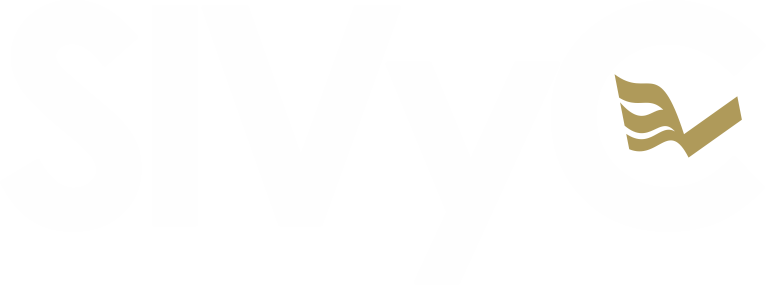
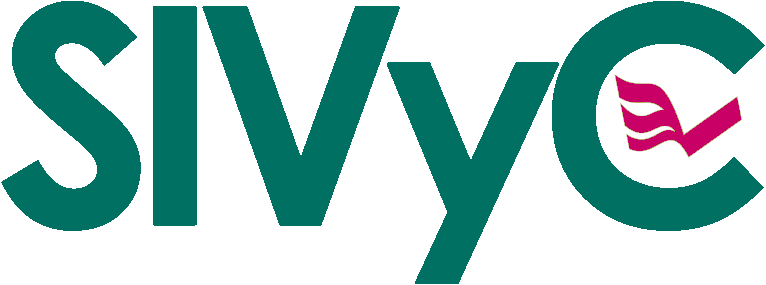
nueva-identidad

diff --git a/public/css/global.css b/public/css/global.css
@@ -11,10 +11,10 @@ input[type=text], select, textarea {
 
 .card-header{    
     font-variant: small-caps;
-    background-color: #621132;
+    background-color: rgb(201, 1, 102) !important;
     color: white;
     margin: 1.7% 1.7% 1% 1.7%;
-    padding: 1.3% 39px 1.3% 39px;
+    padding: 1.3% 39px 1.3% 39px;    
     font-style: normal;
     font-size: 22px;
 }
@@ -46,3 +46,10 @@ td{ font-size: 13px; }
 
 .custom-select-mov { font-size: 16px; }
 .custom-check { width:22px; height:22px; }
+
+.pink2 { background-color: rgb(211, 194, 180) !important;}
+#navbarDropdownMenuLink { color: #333333; font-size: 16px; }
+
+
+.g-bg-black-opacity-0_8 { background-color: rgb(0, 152, 133) !important; }
+.g-brd-primary { border-color: #fff !important; }

diff --git a/public/css/unify-globals.css b/public/css/unify-globals.css
@@ -6323,6 +6323,12 @@ svg.g-transition--linear polygon {
   color: #b09a5b !important;
 }
 
+.g-color-2025--hover:hover {  
+  text-shadow: 1px 1px 2px #fff;
+  border-color: #12322b;
+}
+
+
 /* Black Colors */
 .g-color-black {
   color: #000 !important;

diff --git a/resources/views/theme/sivyc/footer.blade.php b/resources/views/theme/sivyc/footer.blade.php
@@ -1,46 +1,71 @@
-<footer class="form-inline g-bg-black-opacity-0_9 g-color-white-opacity-0_8 g-py-20 g-px-20">
-    <div class="form-inline col-md-2">        
-        <a href="https://www.chiapas.gob.mx" class="navbar-brand g-text-underline--hover"><img src="https://icatech.gob.mx/assets/logo/escudo-icono.png" alt="ESCUDO"></a>
-        <a href="https://www.chiapas.gob.mx" class="g-color-white-opacity-0_9 g-font-size-16 g-font-weight-300 g-font-secondary g-text-underline--hover">chiapas<span class="g-color-white-opacity-0_6">.gob.mx</span></a>
-        
-    </div>
-    <div class="form-inline col-md-7 d-none d-sm-none d-md-none d-lg-none d-xl-block">  
-        <div class="col-md-12  ">
-            <div class="d-lg-flex">
-                            <small class="d-block g-font-size-default g-mr-10 g-mb-10 g-mb-0--md g-font-weight-300">Trámites y Servicios:</small>
-                            <ul class="u-list-inline">
-                                <li class="list-inline-item"><a class="g-color-white-opacity-0_8 g-color-white--hover" href="https://www.chiapas.gob.mx/tramites">Buscar servicios</a></li>
-                                <li class="list-inline-item"><span>|</span></li>
-                                <li class="list-inline-item"><a class="g-color-white-opacity-0_8 g-color-white--hover" href="https://www.chiapas.gob.mx/servicios-pago-de-derechos">Pago de Derechos</a></li>
-                                <li class="list-inline-item"><span>|</span></li>
-                                <li class="list-inline-item"><a class="g-color-white-opacity-0_8 g-color-white--hover" href="https://www.chiapas.gob.mx/servicios-por-entidad">Servicios por Entidad</a></li>
-                                <li class="list-inline-item"><span>|</span></li>
-                                <li class="list-inline-item"><a class="g-color-white-opacity-0_8 g-color-white--hover" href="https://www.chiapas.gob.mx/servicios-por-internet">Servicios por Internet</a></li>
-                            </ul>
-            </div>
-        </div>
-        <div class="col-md-12 ">
-            <div class="d-lg-flex">
-                    <small class="d-block g-font-size-default g-mr-10 g-mb-10 g-mb-0--md">Mantente informado:</small>
-                    <ul class="u-list-inline">
-                        <li class="list-inline-item"><a class="g-color-white-opacity-0_8 g-color-white--hover" href="https://www.chiapas.gob.mx/tv">TV</a></li>
-                        <li class="list-inline-item"><span>|</span></li>
-                        <li class="list-inline-item"><a class="g-color-white-opacity-0_8 g-color-white--hover" href="https://www.chiapas.gob.mx/radio">Radio</a></li>
-                        <li class="list-inline-item"><span>|</span></li>
-                        <li class="list-inline-item"><a class="g-color-white-opacity-0_8 g-color-white--hover" href="https://www.chiapas.gob.mx/prensa">Prensa</a></li>
-                        <li class="list-inline-item"><span>|</span></li>
-                        <li class="list-inline-item"><a class="g-color-white-opacity-0_8 g-color-white--hover" href="https://www.chiapas.gob.mx/redes">Redes sociales</a></li>
-                    </ul>
-            </div>                    
-        </div>
-    </div>
-    <div class="form-inline col-sm-12 col-md-3 align-self-rigth">  
-        <div class="col-md-12 align-self-center d-xl-block">
-                <ul class="list-inline text-center text-md-right mb-0">
-					<li class="list-inline-item g-mr-10"><a class="u-icon-v3 u-icon-size--xs g-bg-white-opacity-0_1 g-bg-white-opacity-0_2--hover g-color-white-opacity-0_6" href="https://www.facebook.com/ICATchiapas" target="_blank"><i class="fab fa-facebook-f"></i></a></li>
+<div class="g-bg-black-opacity-0_8 g-color-white-opacity-0_8 g-py-20">
+	<div class="container">
+		<div class="row">						
+			<div class="col-lg-2 col-md-6 g-mb-40 g-mb-0--lg d-none d-sm-none d-md-none d-lg-block d-xl-block">
+				<a href="https://icatech.gob.mx" class="navbar-brand g-text-underline--hover">
+					<img class="img-fluid" src="{{asset('img/icatech-blanco.png') }}" alt="ICATECH" >
+				</a> 
+			</div>
+			<div class="col-lg-3 col-md-6 g-mb-40 g-mb-0--lg d-none d-sm-none d-md-none d-lg-block d-xl-block">
+				<div class="u-heading-v3-1 g-brd-white-opacity-0_3 g-mb-25">
+					<h2 class="u-heading-v3__title h6 g-brd-primary g-font-size-14 g-color-white g-font-weight-400">Portal del Gobierno</h2>
+			</div>
+			<nav class="text-uppercase1">
+				<ul class="list-unstyled g-mt-minus-10 mb-0">							
+					<li class="g-pos-rel g-brd-bottom g-brd-white-opacity-0_1 g-py-3"><a class="g-color-white-opacity-0_8 g-color-white--hover" >Gobernador Eduardo Ramirez Aguilar</a><i class="fa fa-angle-right g-absolute-centered--y g-right-0"></i></li>
+					<li class="g-pos-rel g-brd-bottom g-brd-white-opacity-0_1 g-py-3"><a  target="_blank" class="g-color-white-opacity-0_8 g-color-white--hover" href="https://www.chiapas.gob.mx/organismos/">Dependencia y Organismos Público</a><i class="fa fa-angle-right g-absolute-centered--y g-right-0"></i></li>
+					<li class="g-pos-rel g-brd-bottom g-brd-white-opacity-0_1 g-py-3"><a  target="_blank" class="g-color-white-opacity-0_8 g-color-white--hover" href="https://www.chiapas.gob.mx/gobierno/">Municipios del Estado</a><i class="fa fa-angle-right g-absolute-centered--y g-right-0"></i></li>									
+				</ul>							
+			</nav>
+		</div>		
+		<div class="col-lg-3 col-md-6 g-mb-40 g-mb-0--lg d-none d-sm-none d-md-none d-lg-block d-xl-block">
+			<div class="u-heading-v3-1 g-brd-white-opacity-0_3 g-mb-25">
+				<h2 class="u-heading-v3__title h6 g-brd-primary">Recursos</h2>
+			</div>		
+			<nav class="text-uppercase1">
+				<ul class="list-unstyled g-mt-minus-10 mb-0">									
+					<li class="g-pos-rel g-brd-bottom g-brd-white-opacity-0_1 g-py-3"><a  target="_blank" class="g-color-white-opacity-0_8 g-color-white--hover" href="https://icatech.gob.mx/normatividad">Normatividad</a><i class="fa fa-angle-right g-absolute-centered--y g-right-0"></i></li>
+					<li class="g-pos-rel g-brd-bottom g-brd-white-opacity-0_1 g-py-3"><a  target="_blank" class="g-color-white-opacity-0_8 g-color-white--hover" href="https://icatech.transparencia.chiapas.gob.mx">Transparencia ICATECH</a><i class="fa fa-angle-right g-absolute-centered--y g-right-0"></i></li>
+					<li class="g-pos-rel g-brd-bottom g-brd-white-opacity-0_1 g-py-3"><a  target="_blank" class="g-color-white-opacity-0_8 g-color-white--hover" href="https://icatech.gob.mx/avisos-de-privacidad">Avisos de Privacidad</a><i class="fa fa-angle-right g-absolute-centered--y g-right-0"></i></li>									
+				</ul>
+			</nav>
+			</div>
+				<div class="col-lg-4 col-md-6 d-none d-sm-none d-md-none d-lg-block d-xl-block">
+					<div class="u-heading-v3-1 g-brd-white-opacity-0_3 g-mb-25">
+						<h2 class="u-heading-v3__title h6 g-brd-primary g-font-size-14 g-color-white g-font-weight-400">Contáctanos</h2>
+					</div>							
+					<address class="g-bg-no-repeat g-line-height-2 g-mt-minus-4" >
+						Av. Barrio San Jacinto N° 154, entre calle Pájaros y calle Conejos, Fracc. El Diamante C.P. 29059 Tuxtla Gutiérrez<br>
+						Conmutador: (961) 612 1621 <br> Correo: icatech@icatech.chiapas.gob.mx
+					</address>							
+                <div class="col-md-12 align-self-center">
+				<ul class="list-inline text-center text-md-right mb-0">
+                    <li class="list-inline-item g-mr-10"><a class="u-icon-v3 u-icon-size--xs g-bg-white-opacity-0_1 g-bg-white-opacity-0_2--hover g-color-white-opacity-0_6" href="https://www.facebook.com/ICATchiapas" target="_blank"><i class="fab fa-facebook-f"></i></a></li>
 					<li class="list-inline-item g-mr-10"><a class="u-icon-v3 u-icon-size--xs g-bg-white-opacity-0_1 g-bg-white-opacity-0_2--hover g-color-white-opacity-0_6" href="https://www.instagram.com/icatechchiapas/" target="_blank"><i class="fab fa-instagram"></i></a></li>
 					<li class="list-inline-item g-mr-10"><a class="u-icon-v3 u-icon-size--xs g-bg-white-opacity-0_1 g-bg-white-opacity-0_2--hover g-color-white-opacity-0_6" href="https://twitter.com/IcatechOficial" target="_blank"><i class="fab fa-twitter"></i></a></li>
 				</ul>
-        </div>
-    </div>    
+				</div>
+			</div>
+		</div>
+	</div>
+</div>
+
+			
+<footer class="g-bg-black-opacity-0_9 g-color-white-opacity-0_8 g-py-20">
+	<div class="container">
+		<div class="row">
+			<div class="col-md-8 text-center text-md-left g-mb-15 g-mb-0--md">
+				<div class="d-lg-flex">
+					<small class="d-block g-font-size-default g-mr-10 g-mb-10 g-mb-0--md">Gobierno del Estado de Chiapas</small>
+				</div>
+			</div>
+			
+			<div class="col-md-4 align-self-center">
+				<ul class="list-inline text-center text-md-right mb-0">
+    				<li class="list-inline-item g-mx-10" data-toggle="tooltip" data-placement="top" title="Facebook"><a href="https://www.facebook.com/gobiernodechiapas" class="g-color-white-opacity-0_5 g-color-white--hover"><i class="fab fa-facebook"></i></a></li>
+						<li class="list-inline-item g-mx-10" data-toggle="tooltip" data-placement="top" title="Twitter"><a href="https://x.com/ChiapasGobierno" class="g-color-white-opacity-0_5 g-color-white--hover"><i class="fab fa-twitter"></i></a></li>
+				</ul>
+			</div>
+		</div>
+	</div>
 </footer>

diff --git a/resources/views/theme/sivyc/menu.blade.php b/resources/views/theme/sivyc/menu.blade.php
@@ -1,8 +1,8 @@
 <!--Navbar -->
-<nav class="mb-1 navbar navbar-expand-lg navbar-dark pink darken-4">
-    <a class="navbar-brand" href="#">
-        <h4><b>ICATECH</b></h4>
-    </a>
+<nav class="mb-1 navbar navbar-expand-lg navbar-dark pink2 darken-4">    
+    <a href="https://sivyc.icatech.gob.mx" class="navbar-brand g-text-underline--hover">
+        <img src="{{asset('img/sivyc.png') }}" alt="SIVyC" height="40">
+    </a>    
     <button class="navbar-toggler" type="button" data-toggle="collapse" data-target="#navbarSupportedContent-555"
         aria-controls="navbarSupportedContent-555" aria-expanded="false" aria-label="Toggle navigation">
         <span class="navbar-toggler-icon"></span>
@@ -32,7 +32,7 @@
                 <!--AGREGAR NUEVO ELEMENTO EN EL MENU END-->
                 @can('preinscripcion.grupo')
                     <li class="nav-item g-mx-5--lg dropdown">
-                        <a class="nav-link g-color-white--hover" href="#" id="navbarDropdownMenuLink"
+                        <a class="nav-link g-color-2025--hover" href="#" id="navbarDropdownMenuLink"
                             data-toggle="dropdown" aria-haspopup="true" aria-expanded="false">
                             Preinscripci&oacute;n
                         </a>
@@ -53,7 +53,7 @@
                 @canany(['solicitud.apertura', 'solicitud.exoneracion', 'supre.index', 'contratos.index', 'pagos.inicio',
                     'prevalidar_index-instructor', 'metasavances.index', 'solicitud.rf001','vobo.rf001'])
                     <li class="nav-item g-mx-5--lg dropdown">
-                        <a class="nav-link g-color-white--hover" href="#" id="navbarDropdownMenuLink" data-toggle="dropdown" aria-haspopup="true" aria-expanded="false">
+                        <a class="nav-link g-color-2025--hover" href="#" id="navbarDropdownMenuLink" data-toggle="dropdown" aria-haspopup="true" aria-expanded="false">
                             Solicitud
                         </a>
                         <div class="dropdown-menu" aria-labelledby="navbarDropdownMenuLink">
@@ -96,7 +96,7 @@
                 @endcanany
                 @canany(['grupos.calificaciones', 'grupos.recibos', 'expunico.buzon.index', 'expedientes.unicos.index'])
                     <li class="nav-item g-mx-5--lg dropdown">
-                        <a class="nav-link g-color-white--hover" href="#" id="navbarDropdownMenuLink" data-toggle="dropdown" aria-haspopup="true" aria-expanded="false">
+                        <a class="nav-link g-color-2025--hover" href="#" id="navbarDropdownMenuLink" data-toggle="dropdown" aria-haspopup="true" aria-expanded="false">
                             Grupos
                         </a>
                         <div class="dropdown-menu" aria-labelledby="navbarDropdownMenuLink">
@@ -129,7 +129,7 @@
                 @endcanany
                 @can('formatot.menu.indice')
                     <li class="nav-item g-mx-5--lg dropdown">
-                        <a href="#" class="nav-link g-color-white--hover" id="navbarDropdownMenuLinkValidacion" data-toggle="dropdown" aria-haspopup="true" aria-expanded="false">
+                        <a href="#" class="nav-link g-color-2025--hover" id="navbarDropdownMenuLink" data-toggle="dropdown" aria-haspopup="true" aria-expanded="false">
                             Formatos T
                         </a>
                         <div class="dropdown-menu" aria-labelledby="navbarDropdownMenuLinkValidacion">
@@ -176,7 +176,7 @@
                 @endcan
                 @can('solicitudes')
                     <li class="nav-item g-mx-5--lg dropdown">
-                        <a class="nav-link g-color-white--hover" href="#" id="navbarDropdownMenuLink"
+                        <a class="nav-link g-color-2025--hover" href="#" id="navbarDropdownMenuLink"
                             data-toggle="dropdown" aria-haspopup="true" aria-expanded="false">
                             Solicitudes
                         </a>
@@ -224,7 +224,7 @@
                     'convenios.index', 'cerss.inicio', 'areas.inicio', 'especialidades.inicio', 'unidades.index',
                     'exoneraciones.inicio', 'instituto.inicio', 'funproc.pat.index', 'unidades.medida.index', 'funcionarios.inicio'])
                     <li class="nav-item g-mx-5--lg dropdown">
-                        <a class="nav-link g-color-white--hover" href="#" id="navbarDropdownMenuLink"data-toggle="dropdown" aria-haspopup="true" aria-expanded="false">
+                        <a class="nav-link g-color-2025--hover" href="#" id="navbarDropdownMenuLink"data-toggle="dropdown" aria-haspopup="true" aria-expanded="false">
                             Catálogos
                         </a>
                         <div class="dropdown-menu" aria-labelledby="navbarDropdownMenuLink">
@@ -277,7 +277,7 @@
                     'reportes.911', 'reportes.rdcd08', 'reportes.rcdod11', 'reportes.rf001', 'financieros.reportevalrec',
                     'financieros.reportecursos', 'reportes.pat', 'reportes.dpa'])
                     <li class="nav-item g-mx-5--lg dropdown">
-                        <a class="nav-link g-color-white--hover" href="#" id="navbarDropdownMenuLink" data-toggle="dropdown" aria-haspopup="true" aria-expanded="false">
+                        <a class="nav-link g-color-2025--hover" href="#" id="navbarDropdownMenuLink" data-toggle="dropdown" aria-haspopup="true" aria-expanded="false">
                             Reportes
                         </a>
                         <div class="dropdown-menu" aria-labelledby="navbarDropdownMenuLink">
@@ -327,7 +327,7 @@
                     'consultas.instructor', 'consultas.instructores.disponibles', 'consultas.poa', 'show.cursos.validados',
                     'consulta.bolsa.trabajo'])
                     <li class="nav-item g-mx-5--lg dropdown">
-                        <a class="nav-link g-color-white--hover" href="#" id="navbarDropdownMenuLink" data-toggle="dropdown" aria-haspopup="true" aria-expanded="false">
+                        <a class="nav-link g-color-2025--hover" href="#" id="navbarDropdownMenuLink" data-toggle="dropdown" aria-haspopup="true" aria-expanded="false">
                             Consultas
                         </a>
                         <div class="dropdown-menu" aria-labelledby="navbarDropdownMenuLink">
@@ -372,7 +372,7 @@
                 @endcanany
                 @canany(['estadisticas.ecursos', 'tablero.metas.index'])
                     <li class="nav-item g-mx-5--lg dropdown">
-                        <a class="nav-link g-color-white--hover" href="#" id="navbarDropdownMenuLink"
+                        <a class="nav-link g-color-2025--hover" href="#" id="navbarDropdownMenuLink"
                             data-toggle="dropdown" aria-haspopup="true" aria-expanded="false">
                             Estadísticas
                         </a>
@@ -389,7 +389,7 @@
             </ul>
             <ul class="navbar-nav ml-auto nav-flex-icons">
                 <li class="nav-item g-mx-5-lg dropdown">
-                    <a class="nav-link dropdown-toggle" id="navbarDropdownMenuLink-55" data-toggle="dropdown"
+                    <a class="nav-link g-color-2025--hover dropdown-toggle" id="navbarDropdownMenuLink" data-toggle="dropdown"
                         aria-haspopup="true" aria-expanded="false">
                         Notificaciones
                         @if (count(auth()->user()->unreadNotifications))
@@ -398,7 +398,7 @@
                             </span>
                         @endif
                     </a>
-                    <div class="dropdown-menu dropdown-menu-lg dropdown-menu-right">
+                    <div class="dropdown-menu dropdown-menu-lg dropdown-menu-right g-color-2025--hover">
                         @foreach (auth()->user()->unreadNotifications as $cadwell)
                             <a href={{ $cadwell->data['url'] }} class="dropdown-item">
                                 <i class="fas fa-envelope mr-2"></i> {{ $cadwell->data['titulo'] }}
@@ -413,12 +413,12 @@
                     </div>
                 </li>
                 <li class="nav-item avatar dropdown">
-                    <a class="nav-link dropdown-toggle" id="navbarDropdownMenuLink-55" data-toggle="dropdown"
+                    <a class="nav-link dropdown-toggle" id="navbarDropdownMenuLink" data-toggle="dropdown"
                         aria-haspopup="true" aria-expanded="false">
                         <i class="fas fa-user"></i>
                     </a>
                     <div class="dropdown-menu dropdown-menu-lg-right dropdown-secondary"
-                        aria-labelledby="navbarDropdownMenuLink-55">
+                        aria-labelledby="navbarDropdownMenuLink">
                         <a class="dropdown-item" href="#">
                             {{ Auth::user()->name }}
                         </a>

diff --git a/resources/views/theme/sivyc/header.blade.php b/resources/views/theme/sivyc/header.blade.php
@@ -1,31 +1,30 @@
-<header id="js-header" class="u-header u-header--sticky-top u-header--toggle-section" data-header-fix-moment="300">
-    <div class="u-header__section u-header__section--light  g-transition-0_3 g-bg-color-header" data-header-fix-moment-exclude="" data-header-fix-moment-classes="u-shadow-v18 g-py-0">
-        <nav class="navbar navbar-expand-lg g-pa-0 g-pt-4 g-pb-4">
-            <div class="container">
-                <button class="navbar-toggler navbar-toggler-right btn g-line-height-1 g-brd-none g-pa-0 g-pos-abs g-top-3 g-right-0" type="button" aria-label="Toggle navigation" aria-expanded="false" aria-controls="navBar" data-toggle="collapse" data-target="#navBar">
-                    <span class="hamburger hamburger--slider">
-                        <span class="hamburger-box">
-                            <span class="hamburger-inner"></span>
-                        </span>
-                    </span>
-                </button>
-
-                <a href="https://sivyc.icatech.gob.mx" class="navbar-brand g-text-underline--hover"><img src="{{asset('img/sivyc.png') }}" alt="escudo" height="50" width="150"></a>
-                <div class="collapse navbar-collapse align-items-center flex-sm-row g-pt-10 g-pt-5--lg" id="navBar">
-                    <ul class="navbar-nav ml-auto g-font-size-16 g-font-weight-100">
-                        <li class="nav-item g-mx-10--lg pl-3"><a href="https://www.chiapas.gob.mx/participa" class="nav-link g-color-white-opacity-0_9 g-text-underline--hover ">Participa</a></li>
-                        <li class="nav-item g-mx-10--lg pl-3"><a href="https://www.chiapas.gob.mx/tramites" class="nav-link g-color-white-opacity-0_9 g-text-underline--hover ">Trámites</a></li>
-                        <li class="nav-item g-mx-10--lg pl-3"><a href="https://www.chiapas.gob.mx/gobierno" class="nav-link g-color-white-opacity-0_9 g-text-underline--hover ">Gobierno</a></li>
-                        <li class="nav-item g-mx-10--lg pl-3"><a href="https://www.chiapas.gob.mx/transparencia" class="nav-link g-color-white-opacity-0_9 g-text-underline--hover ">Transparencia</a></li>
-                    </ul>
-                </div>
-            </div>
-        </nav>
-    </div>
+<header id="js-header" class="u-header u-header--sticky-top u-header--toggle-section" data-header-fix-moment="300">	
+	<div class="u-header__section u-header__section--light  g-transition-0_3" data-header-fix-moment-exclude="" data-header-fix-moment-classes="u-shadow-v18 g-py-0" style="background-color: #333">
+		<nav class="navbar navbar-expand-lg g-pa-0 g-pt-4 g-pb-4">
+			<div class="container">
+				<button class="navbar-toggler navbar-toggler-right btn g-line-height-1 g-brd-none g-pa-0 g-pos-abs g-top-3 g-right-0" type="button" aria-label="Toggle navigation" aria-expanded="false" aria-controls="navBar" data-toggle="collapse" data-target="#navBar">
+					<span class="hamburger hamburger--slider">								
+						<span class="hamburger-box">
+							<span class="hamburger-inner"></span>
+					    </span>
+					</span>
+				</button>
+					
+				<a target="_blank" href="https://chiapas.gob.mx/" class="navbar-brand g-text-underline--hover"><img src="https://chiapas.gob.mx/assets/logo/escudo-icono.png" alt=""></a>
+				<a target="_blank" href="https://chiapas.gob.mx/" class="g-color-white-opacity-0_9 g-font-size-16 g-font-weight-300 g-font-secondary g-text-underline--hover">chiapas<span class="g-color-white-opacity-0_6">.gob.mx</span></a>
+				<div class="collapse navbar-collapse align-items-center flex-sm-row g-pt-10 g-pt-5--lg" id="navBar">
+					<ul class="navbar-nav ml-auto g-font-size-14 g-font-weight-100">
+						<li class="nav-item g-mx-10--lg"><a target="_blank"  href="https://chiapas.gob.mx/servicios-por-entidad" class="nav-link g-color-white-opacity-0_9 g-text-underline--hover ">Trámites</a></li>
+						<li class="nav-item g-mx-10--lg"><a target="_blank"  href="https://chiapas.gob.mx/gobierno" class="nav-link g-color-white-opacity-0_9 g-text-underline--hover ">Gobierno</a></li>
+						<li class="nav-item g-mx-10--lg"><a target="_blank"  href="https://chiapas.gob.mx/participa" class="nav-link g-color-white-opacity-0_9 g-text-underline--hover ">Participa</a></li>
+						<li class="nav-item g-mx-10--lg"><a target="_blank"  href="http://gubernatura.transparencia.chiapas.gob.mx/" class="nav-link g-color-white-opacity-0_9 g-text-underline--hover ">Transparencia</a></li>
+						<li class="nav-item g-mx-10--lg"><a target="_blank"  href="https://chiapas.gob.mx/busquedas" class="nav-link g-color-white-opacity-0_9 g-text-underline--hover"><i class="fa fa-search"></i></a></li>
+					</ul>
+				</div>
+			</div>
+		</nav>
+	</div>
 </header>
-
-<section
-    class="dzsparallaxer auto-init height-is-based-on-content use-loading mode-scroll dzsprx-readyall loaded"
-    data-options='{direction: "normal", settings_mode_oneelement_max_offset: "150"}' style="height: 60px">
-
+<section class="dzsparallaxer auto-init height-is-based-on-content use-loading mode-scroll dzsprx-readyall" 
+data-options='{direction: "normal", settings_mode_oneelement_max_offset: "150"}' style="height: 50px">
 </section>
